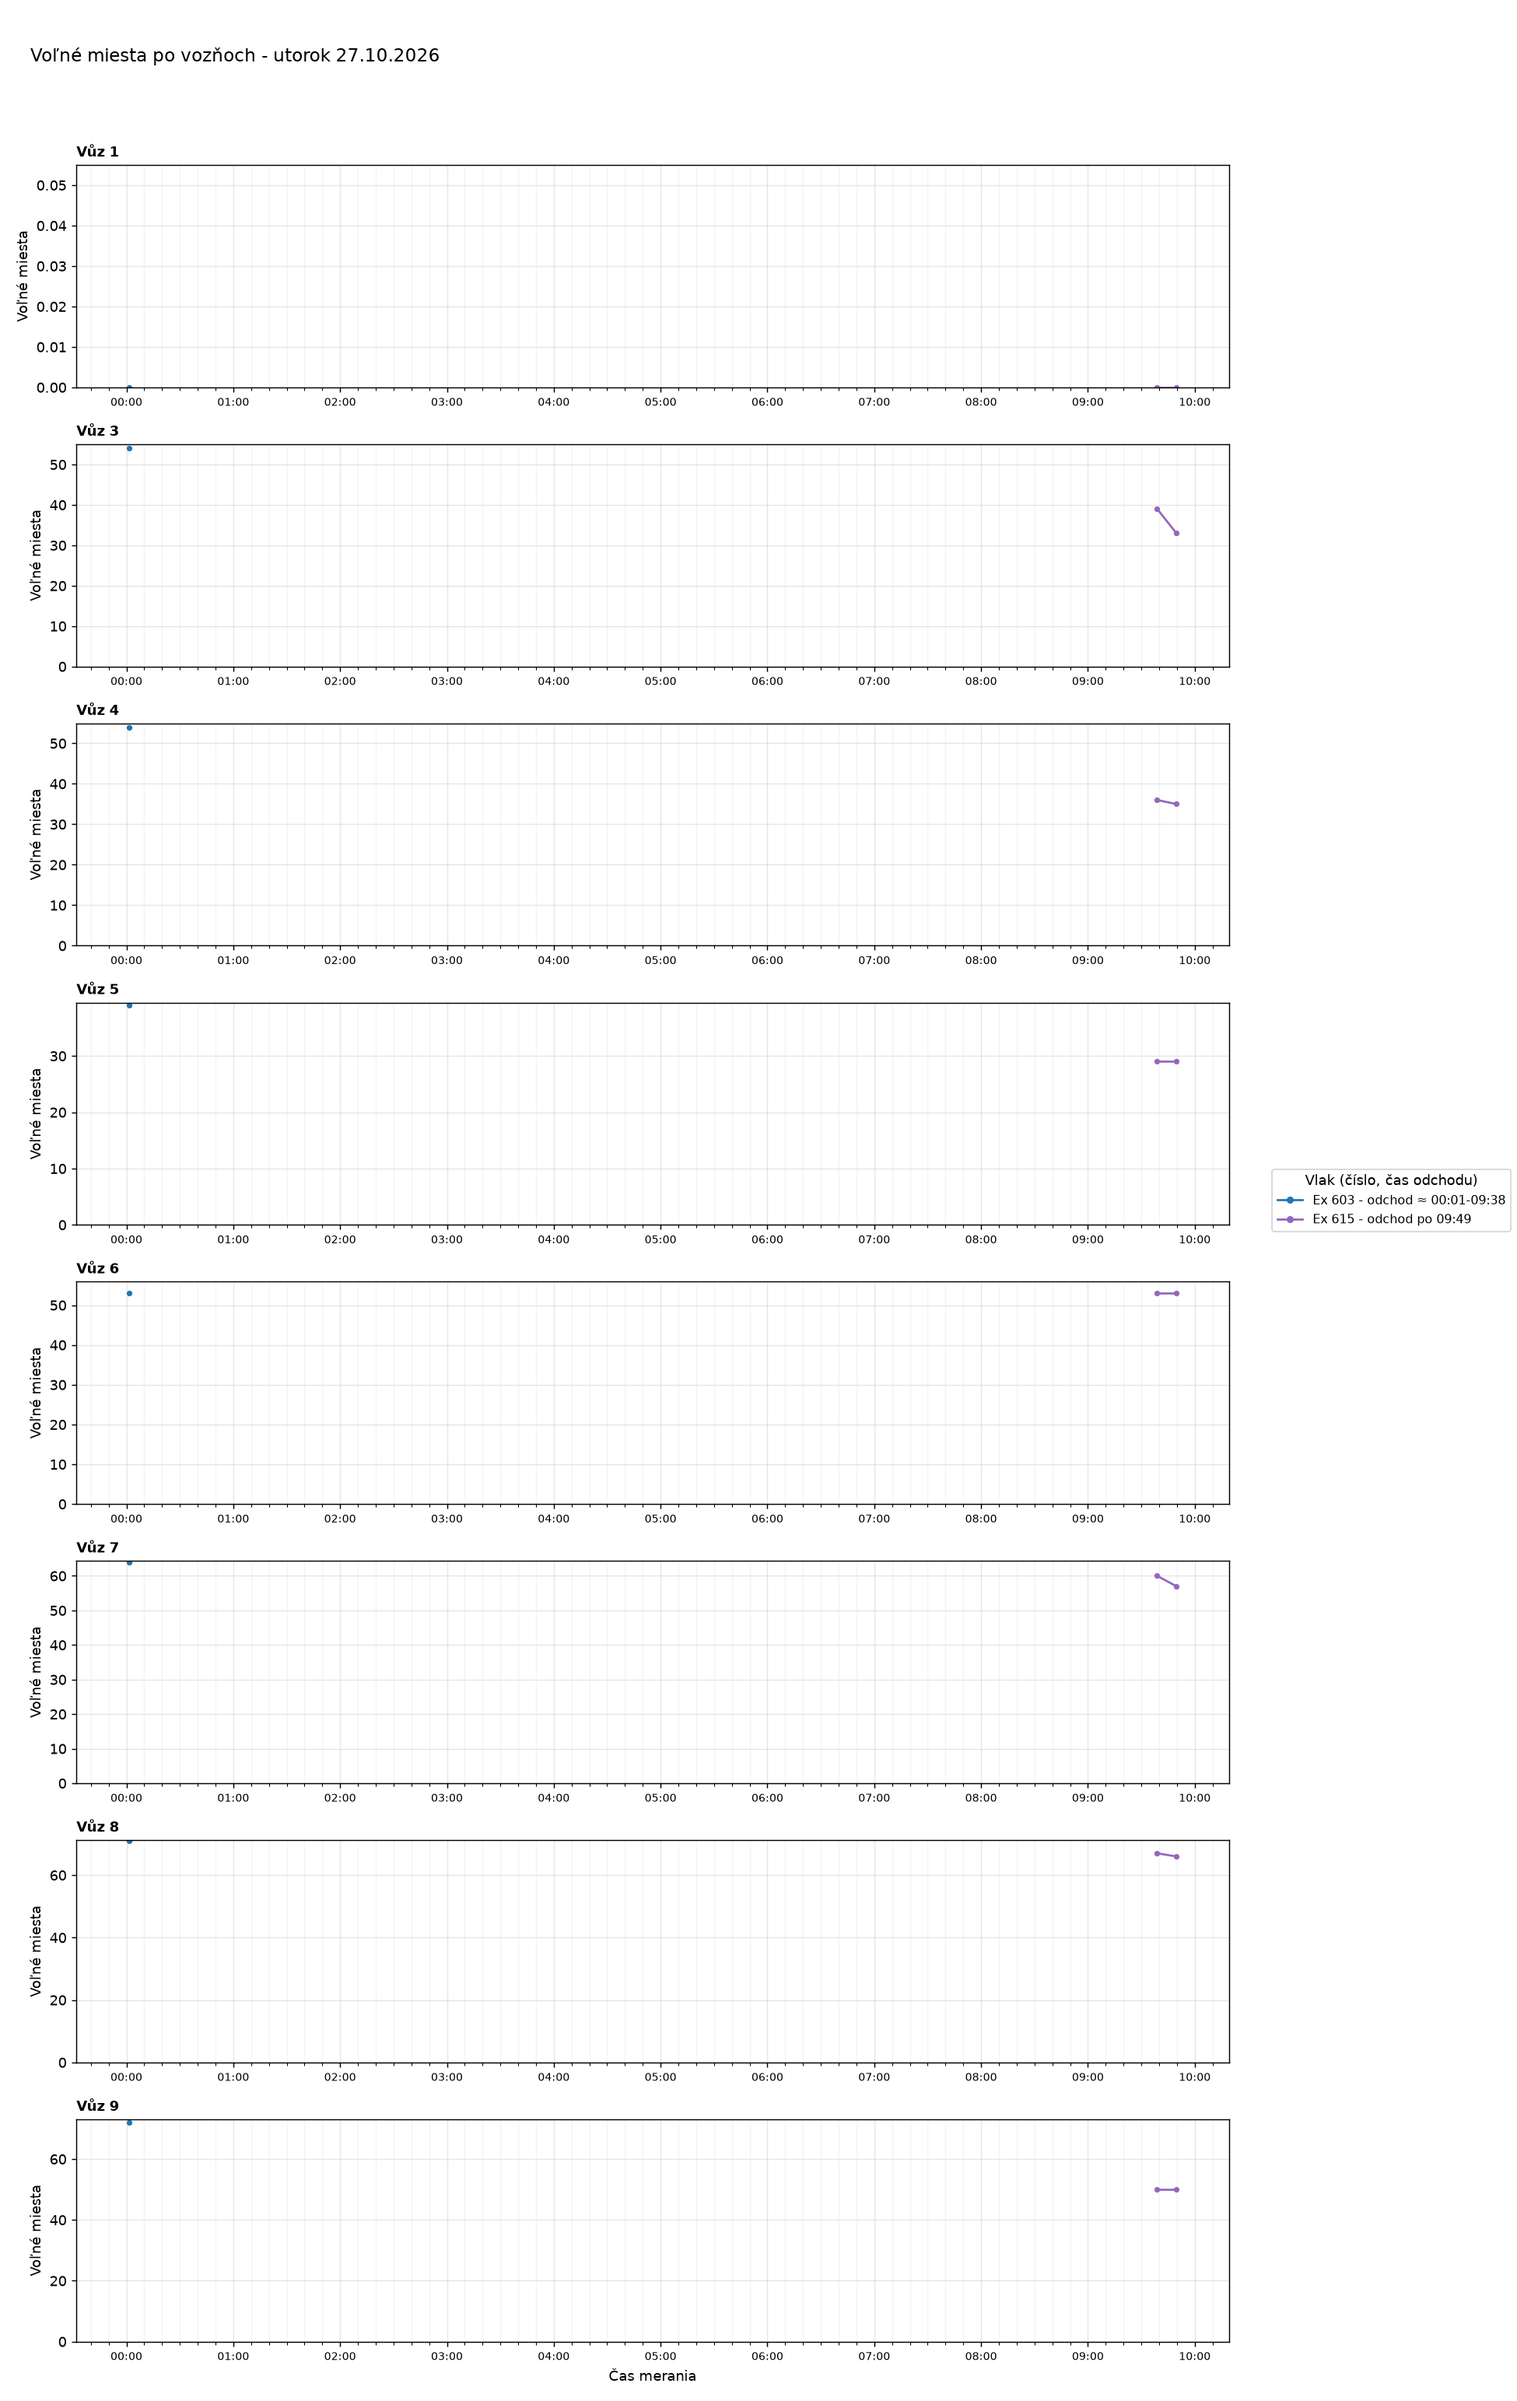
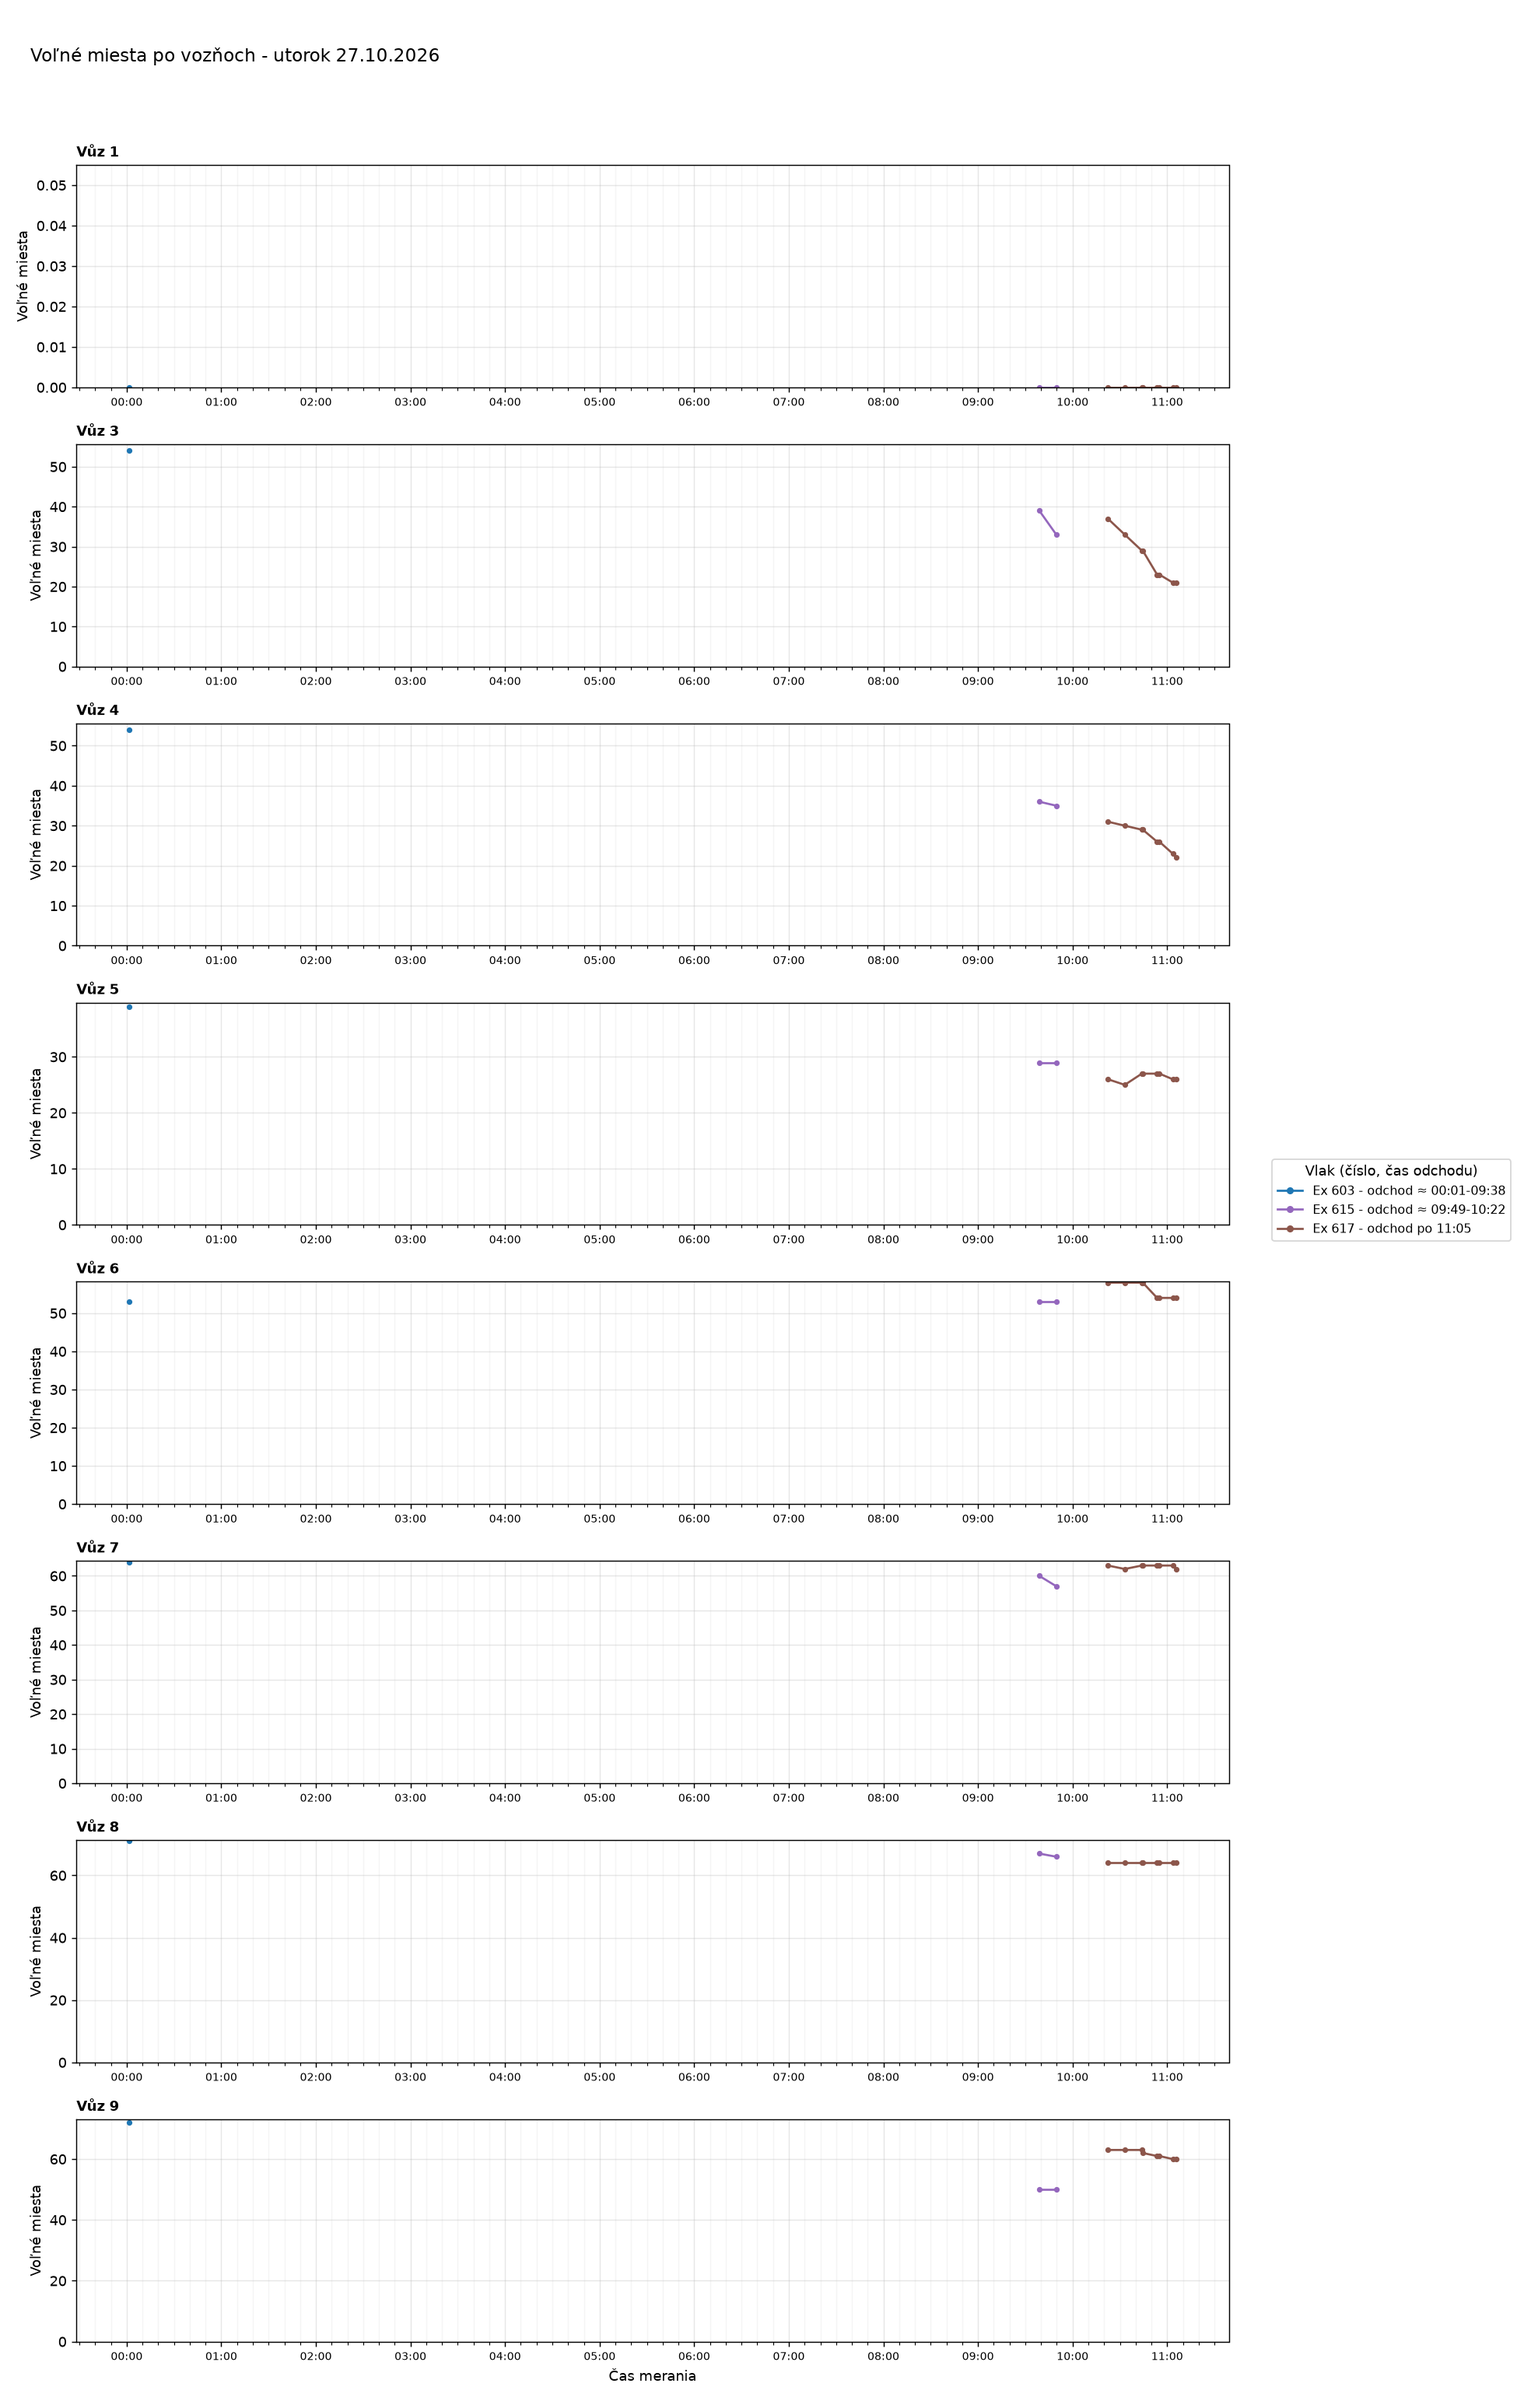
Aktualizácia grafov 2026-10-27 11:06

Changed region(s): [[0.8308, 0.4666, 1.0, 0.5288]]

diff --git a/index.html b/index.html
@@ -35,7 +35,7 @@ h2.oddiel{margin:36px 0 0;font-size:1.4rem}
 <body>
 <main>
 <h1>Voľné miesta vo vlakoch</h1>
-<p class="muted">Posledné meranie: 27.10.2026 09:49 ·
+<p class="muted">Posledné meranie: 27.10.2026 11:05 ·
 <a href="data/obsadenost_data.csv">stiahnuť dáta (CSV)</a></p>
 <nav class="nav"><a href="#suhrn">Súhrn</a><a href="#statistiky">Štatistiky</a><a href="#historia">História grafov</a></nav>
 
@@ -44,7 +44,7 @@ h2.oddiel{margin:36px 0 0;font-size:1.4rem}
 <div class="tablewrap"><table>
 <thead><tr><th>Deň</th><th>Meraní</th><th>Vlakov</th><th>Čas meraní</th></tr></thead>
 <tbody>
-<tr><td><a href="#d2026-10-27">utorok 27.10.2026</a></td><td>3</td><td>2</td><td>00:01-09:49</td></tr>
+<tr><td><a href="#d2026-10-27">utorok 27.10.2026</a></td><td>11</td><td>3</td><td>00:01-11:05</td></tr>
 <tr><td><a href="#d2026-10-26">pondelok 26.10.2026</a></td><td>88</td><td>14</td><td>00:06-23:50</td></tr>
 <tr><td><a href="#d2026-10-25">nedeľa 25.10.2026</a></td><td>101</td><td>15</td><td>00:01-23:56</td></tr>
 <tr><td><a href="#d2026-10-24">sobota 24.10.2026</a></td><td>98</td><td>14</td><td>00:10-23:50</td></tr>
